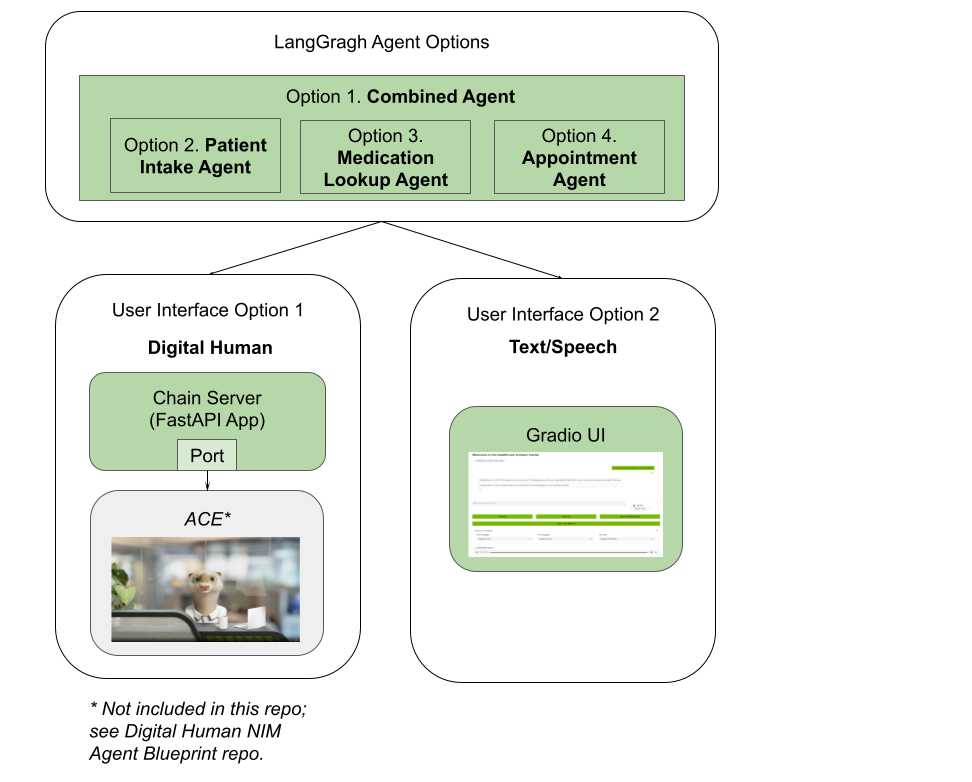
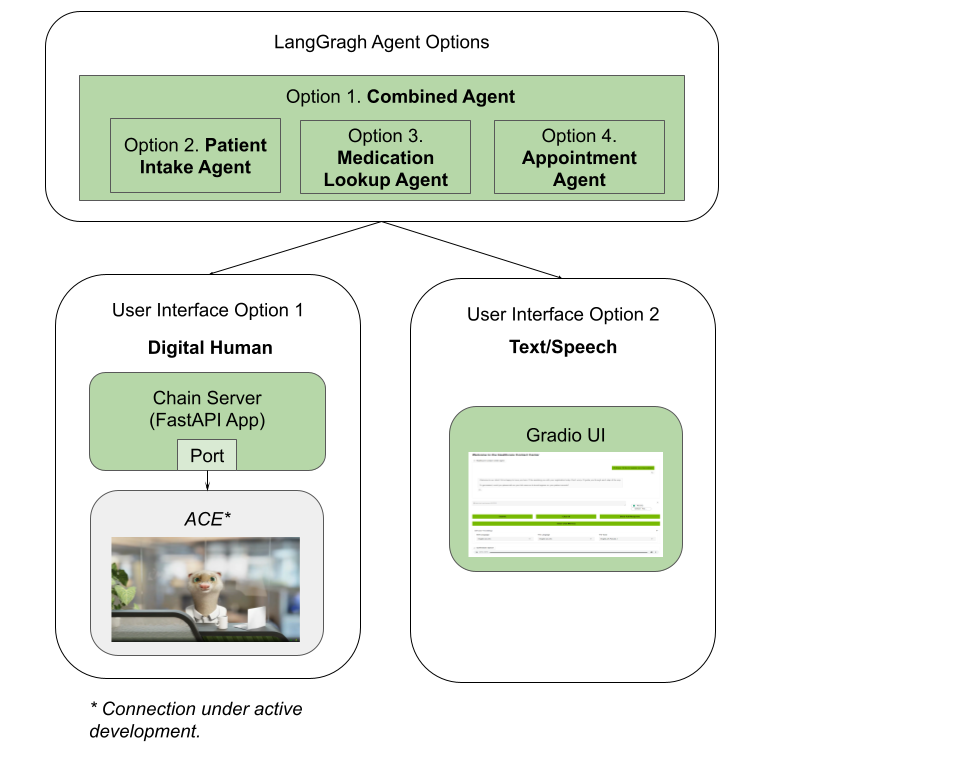
Update README to remove ACE instructions, add notes about upcoming development, and update diagram

Changed region(s): [[0.0926, 0.89, 0.3086, 0.9821]]

diff --git a/industries/healthcare/agentic-healthcare-front-desk/README.md b/industries/healthcare/agentic-healthcare-front-desk/README.md
@@ -9,7 +9,10 @@ Follow along this repository to see how you can create your own digital human fo
 We will offer two options for interacting with the agentic healthcare front desk: with a text / voice based Gradio UI or with a digital human avatar you can converse with.
 ![](./images/repo_overview_structure_diagram.png)
 
-[NVIDIA ACE](https://developer.nvidia.com/ace) is a suite of real-time AI solutions for end-to-end development of interactive avatars and digital human applications at-scale. Its customizable microservices offer the fastest and most versatile solution for bringing avatars to life at-scale. The image below from the GitHub repository for `NIM Agent Blueprint: Digital Human for Customer Service` show the components in the ACE stack on the left side of the dotted line. The components shown on the right side of the dotted line starting from `Fast API` is replaced by our own components in the agentic healthcare front desk.
+[!IMPORTANT]
+Integration with ACE is under active development and will be available soon.
+
+[NVIDIA ACE](https://developer.nvidia.com/ace) is a suite of real-time AI solutions for end-to-end development of interactive avatars and digital human applications at-scale. Its customizable microservices offer the fastest and most versatile solution for bringing avatars to life at-scale. The image below from the GitHub repository for `NIM Agent Blueprint: Digital Human for Customer Service` show the components in the ACE stack on the left side of the dotted line. The components shown on the right side of the dotted line starting from `Fast API` will be replaced by our own components in the agentic healthcare front desk.
 
 ![](./images/ACE_diagram.png)
 
@@ -27,7 +30,7 @@ In this repository, we demonstrate the following:
 * A customer care agent in Langgraph for appointment making only.
 * A customer care agent in Langgraph for medication lookup only.
 * A Gradio based UI that allows us to use voice or typing to converse with any of the four agents.
-* A chain server that allows ACE to connect to any of the four agents.
+* A chain server.
 
 The agentic tool calling capability in each of the customer care assistants is powered by LLM NIMs - NVIDIA Inference Microservices. With the agentic capability, you can write your own tools to be utilized by LLMs.
 
@@ -76,11 +79,11 @@ e. Click **Copy Key** and then save the API key. The key begins with the letters
 
 ## Run Instructions
 
-As illustrated in the diagrams in the beginning, in this repo, we could run two types of applications, one is a chain server that connects the healthcare agent to ACE, the other one is a simple voice/text Gradio UI for the healthcare agent.
+As illustrated in the diagrams in the beginning, in this repo, we could run two types of applications, one is a FastAPI-based chain server, the other one is a simple voice/text Gradio UI for the healthcare agent. In this documentation, we will be showing how to use the Gradio UI, with instructions for connecting the chain server to ACE coming soon.
 
 Regardless of the type of application you'd like to run, first, please add your API Keys.
 
-### Add Your API keys Prior to Running
+### 1. Add Your API keys Prior to Running
 In the file `vars.env`, add two API keys of your own:
 ```
 NVIDIA_API_KEY="nvapi-" 
@@ -88,38 +91,7 @@ TAVILY_API_KEY="tvly-"
 ```
 Note the Tavily key is only required if you want to run the full graph or the medication lookup graph. Get your API Key from the [Tavily website](https://app.tavily.com/). This is used in the tool named `medication_instruction_search_tool` in [`graph.py`](./graph_definitions/graph.py) or [`graph_medication_lookup_only.py`](./graph_definitions/graph_medication_lookup_only.py).
 
-### Connecting to ACE (Option 1)
-#### Run the chain server that serves the LangGraph agents
-First, modify the [`docker-compose.yaml`](./docker-compose.yaml) file to specify the assistant you want to run.
-```yaml
-entrypoint: python3 chain_server/chain_server.py --assistant intake --port 8081
-```
-The `--assistant` arg has 4 choices: `full`, `intake`, `appointment`, `medication`, corresponding to the four assistants with their graphs shown in [`graph_definitions/graph_images/`](./graph_definitions/graph_images/).
-Next, start the chain server container:
-```sh
-docker compose up -d chain-server
-# or to build at this command:
-docker compose up --build -d chain-server 
-```
-
-Note this will be running on port 8081 by default. If you need to run on a different port, modify the [`docker-compose.yaml`](./docker-compose.yaml) file's `chain-server` section and replace all mentions of 8081 with your own port number.
-
-You can test your chain server by running a request demonstrated in [test_chain_server.ipynb](./chain_server/test_chain_server.ipynb).
-
-To bring down the chain server:
-```sh
-docker compose down chain-server
-```
-
-#### Connecting the chain server to ACE
-Connect to this chain server from your ACE stack by specifying the `<host url>:<port number>` of the chain server. If you're running on a cloud service provider's instance, please ensure that the instance has a publicly accessible URL and the port is exposed. 
-
-For the steps of standing up your digital human ACE stack, please see the [Digital Human Blueprint Card](https://build.nvidia.com/nvidia/digital-humans-for-customer-service/blueprintcard), [GitHub repo for NIM Agent Blueprint: Digital Human for Customer Service](https://github.com/NVIDIA-NIM-Agent-Blueprints/digital-human), and [ACE Documentation](https://docs.nvidia.com/ace/latest/index.html).
-
-The ACE connection that makes requests to the chain server will have a web interface that looks like this, and the avatar is customizable.
-![](./images/ace_ferret_avatar.png)
-
-### Running the simple voice/text Gradio UI (Option 2)
+### 2. Running the simple voice/text Gradio UI
 To spin up a simple Gradio based web UI that allows us to converse with one of the agents via voice or typing, run one of these following services.
 
 ##### 2.1 The patient intake agent 
@@ -217,9 +189,5 @@ If you receive the following `"Media devices could not be accessed"` error messa
 1. Retry your request on the web UI.
 
 ## Customization
-To customize for your own agentic LLM in LangGraph with your own tools, the [LangGraph tutorial on customer support](https://langchain-ai.github.io/langgraph/tutorials/customer-support/customer-support/) is helpful, where you'll find detailed explanations and steps of creating tools and agentic LLM in LangGraph. Afterwards, you can create your own file similar to the graph files in [`graph_definitions/`](./graph_definitions/) which can connect to the simple voice/text Gradio UI by calling [`launch_demo_ui`](./graph_definitions/graph_patient_intake_only.py#L184), or can be imported by the [chain server](./chain_server/chain_server.py#L31) which is the connection point for ACE.
+To customize for your own agentic LLM in LangGraph with your own tools, the [LangGraph tutorial on customer support](https://langchain-ai.github.io/langgraph/tutorials/customer-support/customer-support/) is helpful, where you'll find detailed explanations and steps of creating tools and agentic LLM in LangGraph. Afterwards, you can create your own file similar to the graph files in [`graph_definitions/`](./graph_definitions/) which can connect to the simple voice/text Gradio UI by calling [`launch_demo_ui`](./graph_definitions/graph_patient_intake_only.py#L184), or can be imported by the [chain server](./chain_server/chain_server.py#L31).
 
-To customize the ACE connection to the agent, which will be necessary since the chain server will be up at your own URL, please see the ACE [GitHub](https://github.com/NVIDIA-NIM-Agent-Blueprints/digital-human/tree/main/customize) and [documentation](https://docs.nvidia.com/ace/latest/workflows/tokkio/text/Tokkio_LLM_RAG_Bot.html#customizing-the-pipeline).
-
-
-To customize the ACE avatar and other configurations, please refer to the [ACE Documentation](https://docs.nvidia.com/ace/latest/index.html).
